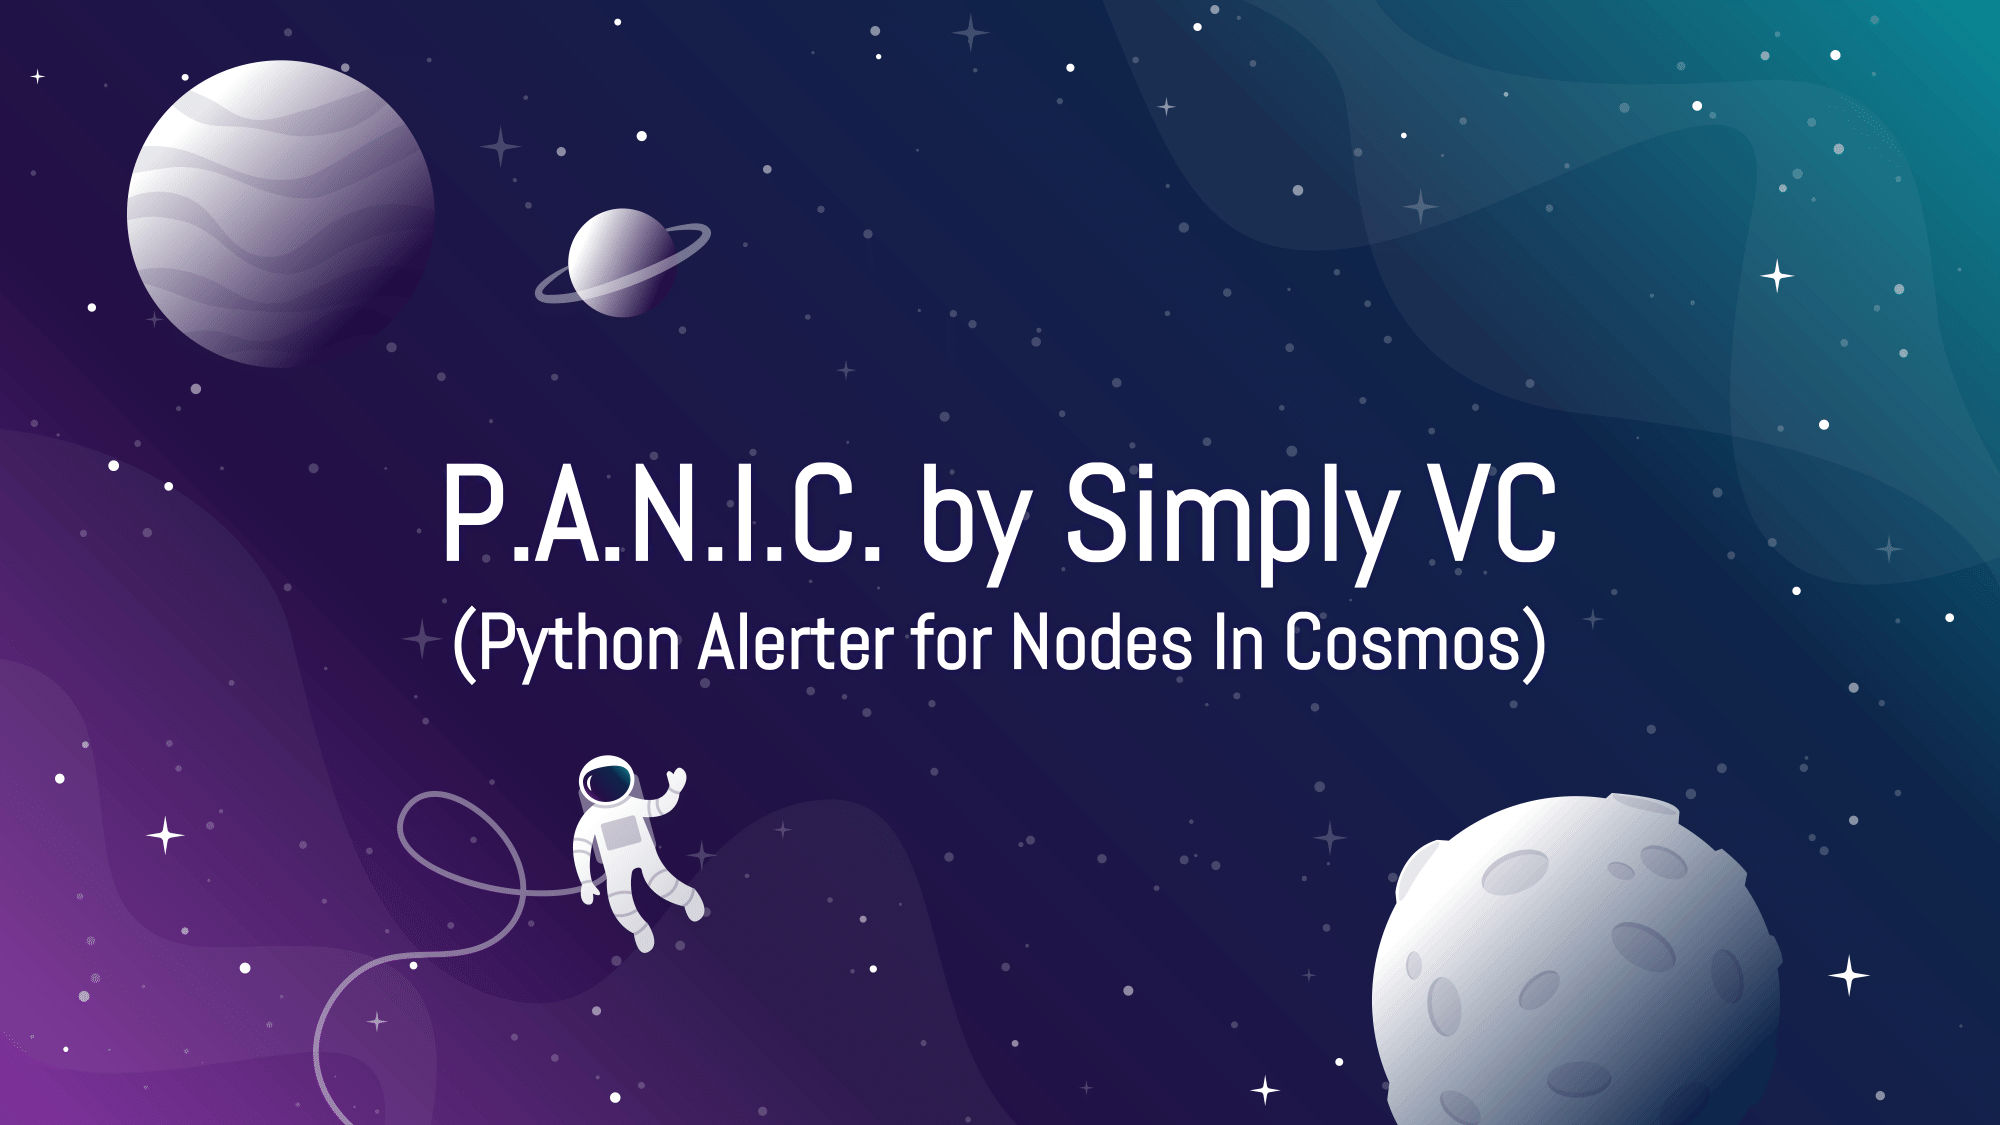
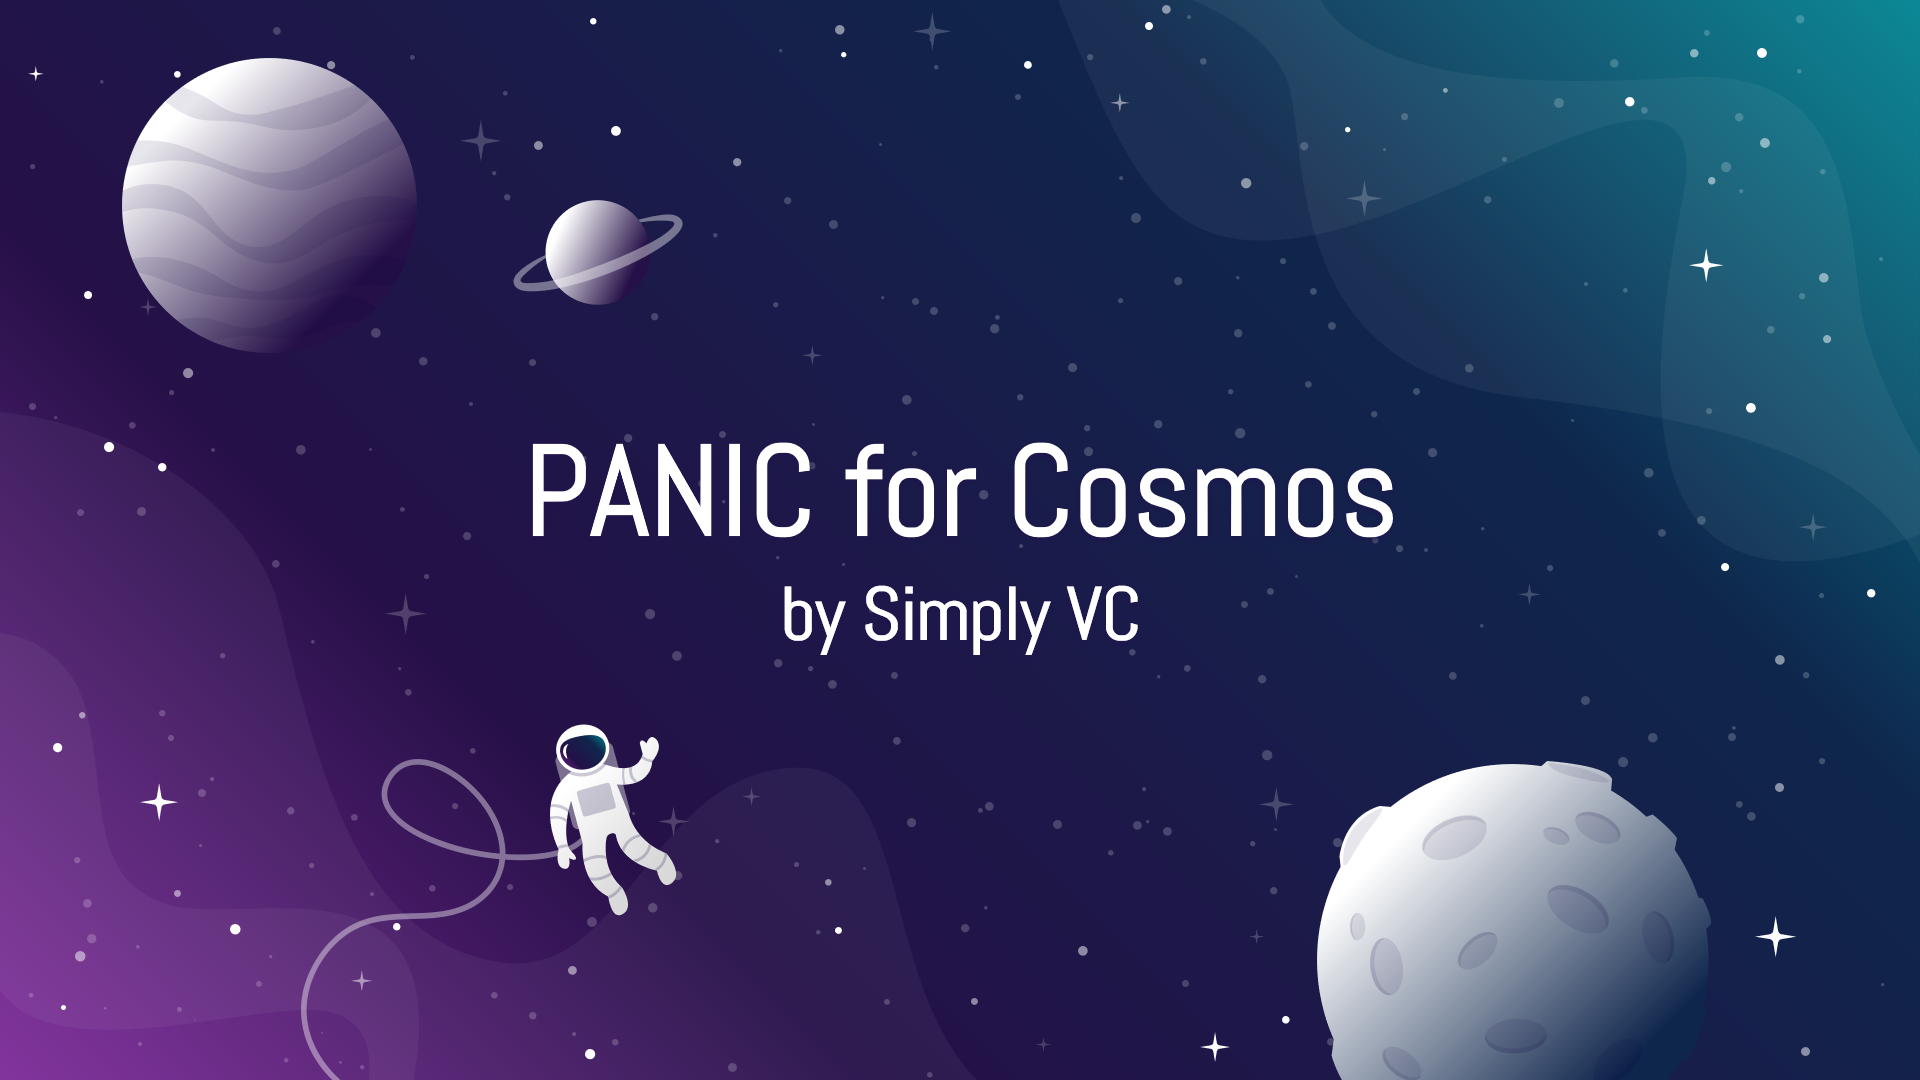
P.A.N.I.C. -> PANIC

Changed region(s): [[0.2188, 0.3972, 0.7812, 0.6111]]

diff --git a/src/setup/setup_user_config_main.py b/src/setup/setup_user_config_main.py
@@ -34,8 +34,8 @@ def setup_general(cp: ConfigParser) -> None:
     print('The first step is to set a unique identifier for the alerter. This '
           'can be any word that uniquely describes the setup being monitored. '
           'Uniqueness is very important if you are running multiple instances '
-          'of the P.A.N.I.C. alerter, to avoid any possible Redis clashes. The '
-          'name will only be used internally and will not show up in alerts.')
+          'of the PANIC alerter, to avoid any possible Redis clashes. The name '
+          'will only be used internally and will not show up in alerts.')
 
     if is_already_set_up(cp, 'general'):
         identifier = cp['general']['unique_alerter_identifier']
@@ -254,7 +254,7 @@ def setup_telegram_commands(cp: ConfigParser) -> None:
                           'wish to clear the current config? (Y/n)\n'):
         return
 
-    print('NOTE: If you are running more than one instance of the P.A.N.I.C. '
+    print('NOTE: If you are running more than one instance of the PANIC '
           'alerter, do not use the same telegram bot as the other instance/s.')
 
     reset_section('telegram_commands', cp)

diff --git a/src/setup/setup_user_config_nodes.py b/src/setup/setup_user_config_nodes.py
@@ -43,9 +43,9 @@ def setup_nodes(cp: ConfigParser) -> None:
           'of nodes to be included in the monitoring will now be set up. This '
           'includes validators, sentries, and any full nodes that can be used '
           'as a data source to monitor from the network\'s perspective. You '
-          'may include nodes from multiple networks in any order; P.A.N.I.C. '
-          'will figure out which network they belong to when you run it. Node '
-          'names must be unique!')
+          'may include nodes from multiple networks in any order; PANIC will '
+          'figure out which network they belong to when you run it. Node names '
+          'must be unique!')
 
     # Check if list already set up
     if len(cp.sections()) > 0 and \

diff --git a/src/commands/handlers/telegram.py b/src/commands/handlers/telegram.py
@@ -85,7 +85,7 @@ class TelegramCommands(Commands):
             return
 
         # Send welcome message
-        update.message.reply_text("Welcome to the P.A.N.I.C. alerter bot!\n"
+        update.message.reply_text("Welcome to the PANIC alerter bot!\n"
                                   "Type /help for more information.")
 
     def _snooze_callback(self, update: Update, context: CallbackContext):

diff --git a/run_alerter.py b/run_alerter.py
@@ -285,7 +285,7 @@ if __name__ == '__main__':
         REDIS = None
 
     # Alerters initialisation
-    alerter_name = 'P.A.N.I.C.'
+    alerter_name = 'PANIC'
     full_channel_set = get_full_channel_set(
         alerter_name, logger_general, REDIS, log_file_alerts)
     log_and_print('Enabled alerting channels (general): {}'.format(

diff --git a/run_setup.py b/run_setup.py
@@ -14,7 +14,7 @@ def run() -> None:
     cp_repos.read('config/user_config_repos.ini')
 
     # Start setup
-    print('Welcome to the P.A.N.I.C. alerter!')
+    print('Welcome to the PANIC alerter!')
     try:
         setup_user_config_main.setup_all(cp_main)
         with open('config/user_config_main.ini', 'w') as f:

diff --git a/doc/DESIGN_AND_FEATURES.md b/doc/DESIGN_AND_FEATURES.md
@@ -13,13 +13,13 @@ This page will present the inner workings of the alerter as well as the features
 
 ## Design
 
-The below diagram gives an idea of the various components at play when P.A.N.I.C. is running, and how they interact with each other and the node operator:
+The below diagram gives an idea of the various components at play when PANIC is running, and how they interact with each other and the node operator:
 
 <img src="./IMG_DESIGN_5x.png" alt="design" width="600"/>
 
 ## Alerting Channels
 
-P.A.N.I.C. currently supports five alerting channels. By default, only console and logging alerts are enabled, allowing the node operator to run the alerter without having to set up extra alerting channels. This is not enough for a more serious and longer-term alerting setup, for which the node operator should set up the remaining alerting channels.
+PANIC currently supports five alerting channels. By default, only console and logging alerts are enabled, allowing the node operator to run the alerter without having to set up extra alerting channels. This is not enough for a more serious and longer-term alerting setup, for which the node operator should set up the remaining alerting channels.
 
 - **Console**: alerts printed to standard output (`stdout`).
 - **Logging**: alerts logged to an alerts log (`logs/alerts/alerts.log`).
@@ -31,7 +31,7 @@ Instructions on how to set up the alerting channels can be found in the [install
 
 ## Alert Types
 
-Different events vary in severity. We cannot treat an alert for a new version of the Cosmos SDK as being on the same level as an alert for validator downtime. P.A.N.I.C. makes use of four alert types:
+Different events vary in severity. We cannot treat an alert for a new version of the Cosmos SDK as being on the same level as an alert for validator downtime. PANIC makes use of four alert types:
 
 - **MAJOR**: the most severe alert and the only type of alert that uses the Twilio phone calling. Example: validator misses 10 blocks in a row.
 - **MINOR**: a less severe alert but which still requires attention as it may be a warning of an incoming major alert. Example: validator misses multiple blocks.
@@ -40,7 +40,7 @@ Different events vary in severity. We cannot treat an alert for a new version of
 
 ## Monitor Types
 
-An aspect of the design of P.A.N.I.C. that is less visible to the user is that there are multiple monitor types. Once the alerter is started, it detects the number of nodes and which network(s) they belong to and automatically launches the necessary number of monitors of each type.
+An aspect of the design of PANIC that is less visible to the user is that there are multiple monitor types. Once the alerter is started, it detects the number of nodes and which network(s) they belong to and automatically launches the necessary number of monitors of each type.
 
 - **Node monitor** (one per node): deals with node-specific details such as voting power and number of peers.
 - **Network monitor** (one per network): deals with general details from each committed block in a network, using any non-validator node available as a data source, mainly to find out if the validator/s are missing blocks.
@@ -102,7 +102,7 @@ In each monitoring round, the GitHub monitor:
 
 ## Periodic Alive Reminder
 
-The periodic alive reminder is a way for P.A.N.I.C to inform the operator that it is still running. This can be useful to the operator when no alerts have been sent for a long time, therefore it does not leave the operator wondering whether P.A.N.I.C is still running or not.
+The periodic alive reminder is a way for PANIC to inform the operator that it is still running. This can be useful to the operator when no alerts have been sent for a long time, therefore it does not leave the operator wondering whether PANIC is still running or not.
 
 The following are some important points about the periodic alive reminder:
 
@@ -111,7 +111,7 @@ The following are some important points about the periodic alive reminder:
 
 ## Telegram Commands
 
-Telegram bots in P.A.N.I.C. serve two purposes. As mentioned above, they are used to send alerts. However they can also accept commands that allow you to check the status of the alerter (and its running monitors), snooze or unsnooze calls, mute or unmute periodic alive reminders, and conveniently get Cosmos explorer links to validator lists, blocks, and transactions.
+Telegram bots in PANIC serve two purposes. As mentioned above, they are used to send alerts. However they can also accept commands that allow you to check the status of the alerter (and its running monitors), snooze or unsnooze calls, mute or unmute periodic alive reminders, and conveniently get Cosmos explorer links to validator lists, blocks, and transactions.
 
 <img src="./IMG_TELEGRAM_COMMANDS.png" alt="telegram_commands"/>
 
@@ -249,7 +249,7 @@ The only two alerts raised by the GitHub alerter are an info alert when a new re
 
 ### Periodic Alive Reminder
 
-If the periodic alive reminder is enabled from the config file, and P.A.N.I.C is running smoothly, the operator is informed every time period that P.A.N.I.C is still running via an info alert.
+If the periodic alive reminder is enabled from the config file, and PANIC is running smoothly, the operator is informed every time period that PANIC is still running via an info alert.
 
 The periodic alive reminder always uses the console and logger to raise this alert, however, the operator can also receive this alert via Telegram, Email or both, by modifying the config file as described [here](./INSTALL_AND_RUN.md#setting-up-panic).
 

diff --git a/doc/INSTALL_AND_RUN.md b/doc/INSTALL_AND_RUN.md
@@ -1,9 +1,9 @@
-# Installing and Running P.A.N.I.C.
+# Installing and Running PANIC
 
-This page will guide you through the steps required to get P.A.N.I.C. up and alerting, including the installation of preliminaries, setting up of 
-P.A.N.I.C. itself, additional (optional) configuration, and running the alerter (directly or as a Linux service). Some steps are optional.
+This page will guide you through the steps required to get PANIC up and alerting, including the installation of preliminaries, setting up of 
+PANIC itself, additional (optional) configuration, and running the alerter (directly or as a Linux service). Some steps are optional.
 
-We recommend that the alerter is installed on a Linux system, given the simpler installation and running process. However, instructions on how to install P.A.N.I.C. on a Windows system are also provided. On a Debian-based Linux system, run the following before starting the installation process:
+We recommend that the alerter is installed on a Linux system, given the simpler installation and running process. However, instructions on how to install PANIC on a Windows system are also provided. On a Debian-based Linux system, run the following before starting the installation process:
 ```bash
 sudo apt-get update
 sudo apt-get upgrade
@@ -11,7 +11,7 @@ sudo apt-get upgrade
 
 ## Requirements
 
-The only major requirement to run P.A.N.I.C. is Python 3. However, to unlock the full potential of the alerter, we recommend that you install or set up as many of the below requirements as possible:
+The only major requirement to run PANIC is Python 3. However, to unlock the full potential of the alerter, we recommend that you install or set up as many of the below requirements as possible:
 - Python v3.5.2+ with pip package manager and pipenv packaging tool.
 - **Optional**: Telegram account and bots, for Telegram alerts and commands.
 - **Optional**: Twilio account, for highly effective phone call alerts.
@@ -38,9 +38,9 @@ The only major requirement to run P.A.N.I.C. is Python 3. However, to unlock the
 - **Twilio**: [Click here](INSTALL_TWILIO.md) if you want to set up a Twilio account.
 - **Redis server**: [Click here](INSTALL_REDIS.md) if you want to set up a Redis server.
 
-## Setting up P.A.N.I.C.
+## Setting up PANIC
 
-P.A.N.I.C. requires its own setup process, involving three main parts, each of which generates its own respective config file:
+PANIC requires its own setup process, involving three main parts, each of which generates its own respective config file:
 
 - Linking up any of the optional features that you set up (`config/user_config_main.ini`)
 - Providing a list of nodes that you wish to monitor (`config/user_config_nodes.ini`)
@@ -74,9 +74,9 @@ This file consists of values such as:
 - **Alert frequency and severity modifiers (by time intervals and boundaries)**
 - Links to use for the `/validators`, `/block`, and `/tx` Telegram commands.
 
-## Running P.A.N.I.C.
+## Running PANIC
 
-After all of the setting-up, you will be glad to find out that running the alerter is a breeze. To start up P.A.N.I.C. simply run the following commands:
+After all of the setting-up, you will be glad to find out that running the alerter is a breeze. To start up PANIC simply run the following commands:
 ```bash
 pipenv sync
 pipenv run python run_alerter.py
@@ -87,7 +87,7 @@ Assuming that the setup process was followed till the end, the above commands wi
 
 It is recommended to check the console output or general log to make sure that all monitors started-up. Alternatively, you can run the `/status` command on Telegram if you set up both Telegram and Redis.
 
-## Running P.A.N.I.C. as a Linux Service
+## Running PANIC as a Linux Service
 
 Running the alerter as a service means that it start up automatically on boot and restarts automatically if it runs into some issue and stops running. To do so, we recommend the following steps:
 ```bash
@@ -117,7 +117,7 @@ It should contain the following, replacing `<USER>` with the created user's name
 *Make sure that the `<ALERTER_DIR>` is the full path, for example: `/root/panic_cosmos/`*
 ```bash
 [Unit]
-Description=P.A.N.I.C.
+Description=PANIC
 After=network.target
 StartLimitIntervalSec=0
 

diff --git a/README.md b/README.md
@@ -1,20 +1,20 @@
-# P.A.N.I.C. by Simply VC
+# PANIC for Cosmos
 
-<img src="./doc/IMG_PANIC.png" alt="design" width="600"/>
+<img src="./doc/IMG_PANIC.png" alt="PANIC Logo"/>
 
-P.A.N.I.C. (Python Alerter for Nodes In Cosmos) by [Simply VC](https://simply-vc.com.mt/) is a powerful and lightweight open source monitoring and alerting solution for [Cosmos](https://cosmos.network/) nodes. It is compatible with any chain built using the Cosmos SDK. The tool was built with user friendliness in mind, without excluding cool and useful features like phone calls for major alerts and Telegram commands for increased control over your alerter.
+PANIC for [Cosmos](https://cosmos.network/) is a lightweight yet powerful open source monitoring and alerting solution for Cosmos nodes by [Simply VC](https://simply-vc.com.mt/). It is compatible with any chain built using the Cosmos SDK. The tool was built with user friendliness in mind, without excluding cool and useful features like phone calls for major alerts and Telegram commands for increased control over your alerter.
 
-The alerter's focus on a modular design means that it is beginner friendly but also developer friendly. It allows the user to decide which components of the alerter to set up while making it easy for developers to add new features. P.A.N.I.C. also offers two levels of configurability, _user_ and _internal_, allowing more experienced users to fine-tune the alerter to their preference.
+The alerter's focus on a modular design means that it is beginner friendly but also developer friendly. It allows the user to decide which components of the alerter to set up while making it easy for developers to add new features. PANIC also offers two levels of configurability, _user_ and _internal_, allowing more experienced users to fine-tune the alerter to their preference.
 
-We are sure that P.A.N.I.C. will be beneficial for node operators in the Cosmos community and we look forward to feedback. Feel free to read on if you are interested in the design of the alerter, if you wish to try it out, or if you would like to support and contribute to this open source project, or just check out upcoming features.
+We are sure that PANIC will be beneficial for node operators in the Cosmos community and we look forward to feedback. Feel free to read on if you are interested in the design of the alerter, if you wish to try it out, or if you would like to support and contribute to this open source project, or just check out upcoming features.
 
 ### Design and Features
 
-[Click here](doc/DESIGN_AND_FEATURES.md) if you want to dive into the design and feature set of P.A.N.I.C.
+[Click here](doc/DESIGN_AND_FEATURES.md) if you want to dive into the design and feature set of PANIC
 
 ### Ready, Set, Alert!
 
-[Click here](doc/INSTALL_AND_RUN.md) if you are ready to try out P.A.N.I.C. on your Cosmos nodes!
+[Click here](doc/INSTALL_AND_RUN.md) if you are ready to try out PANIC on your Cosmos nodes!
 
 ### Support and Contribution
 
@@ -32,4 +32,4 @@ If you wish to read more about monitoring and alerting on Cosmos, check out [our
 
 ---
 
-Official P.A.N.I.C. by Simply VC image adapted from [slidescarnival.com](https://www.slidescarnival.com/)
+Official PANIC by Simply VC image adapted from [slidescarnival.com](https://www.slidescarnival.com/)

diff --git a/doc/INSTALL_REDIS.md b/doc/INSTALL_REDIS.md
@@ -1,6 +1,6 @@
 # Redis Server
 
-Before installing Redis, we recommend that you read through the [security model of Redis](https://redis.io/topics/security), which is meant to be run within a strictly trusted environment. The below installation, and P.A.N.I.C. in general, takes this security model into account and includes the suggested security boosts.
+Before installing Redis, we recommend that you read through the [security model of Redis](https://redis.io/topics/security), which is meant to be run within a strictly trusted environment. The below installation, and PANIC in general, takes this security model into account and includes the suggested security boosts.
 
 1. To install **Redis server** on your system:
     - On Linux, run:
@@ -16,7 +16,7 @@ Before installing Redis, we recommend that you read through the [security model 
     2. In the `GENERAL` section, add (or uncomment) the line `bind 127.0.0.1` to bind Redis only to localhost. This assumes that Redis is installed on the same system that will run the alerter.
     3. In the `SECURITY` section, add (or uncomment) the line `requirepass <PASS>`, where `<PASS>` is a complex password of your choosing. The alerter will ask for this password during setup.
     4. In the `SECURITY` section, you can also choose to disable some commands to prevent some actions from taking place. For each command, add a line: `rename-command <COMMAND> ""`.
-        -  The following commands are *not* used by P.A.N.I.C. and can thus be disabled: `FLUSHALL`, `PEXPIRE`, `CONFIG`, `SHUTDOWN`, `BGREWRITEAOF`, `BGSAVE`, `SAVE`, `SPOP`, `SREM`, `RENAME` and `DEBUG`.
+        -  The following commands are *not* used by PANIC and can thus be disabled: `FLUSHALL`, `PEXPIRE`, `CONFIG`, `SHUTDOWN`, `BGREWRITEAOF`, `BGSAVE`, `SAVE`, `SPOP`, `SREM`, `RENAME` and `DEBUG`.
     5. On Linux, restart Redis to apply changes: `sudo service redis-server restart`
 
 3. To **run Redis**:

diff --git a/doc/CONTRIBUTING.md b/doc/CONTRIBUTING.md
@@ -34,7 +34,7 @@ The sections below outline the steps in each case.
  (If multiple versions of Python are installed, the `python` executable may be `python3.6`, `python3.7`, etc.)
 1. add your own tests (if necessary);
 1. update or expand the documentation;
-1. [push](http://rogerdudler.github.io/git-guide/) your feature branch to (your fork of) the P.A.N.I.C. alerter repository on GitHub;
+1. [push](http://rogerdudler.github.io/git-guide/) your feature branch to (your fork of) the PANIC alerter repository on GitHub;
 1. create the pull request, e.g. following the instructions [here](https://help.github.com/articles/creating-a-pull-request/).
 
 In case you feel like you've made a valuable contribution, but you don't know how to write or run tests for it, or how to generate the documentation: don't let this discourage you from making the pull request; we can help you! Just go ahead and submit the pull request, but keep in mind that you might be asked to append additional commits to your pull request.
